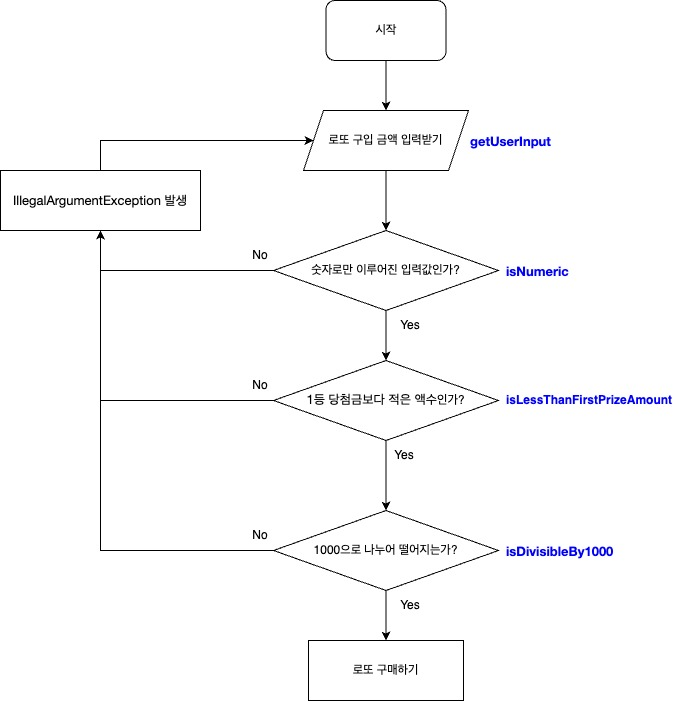
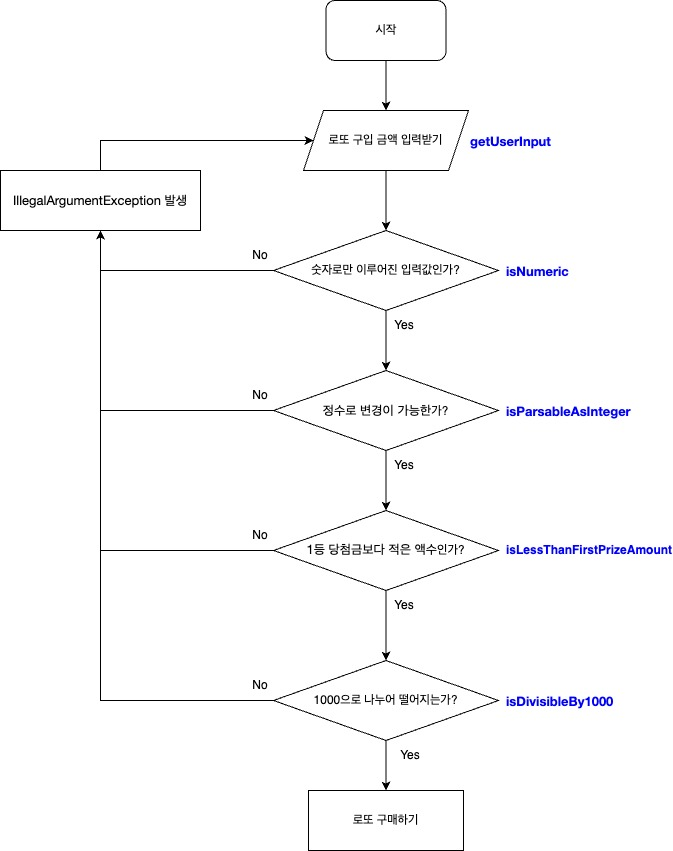
docs: 기능 구현 목록(입력 : Integer형으로 형변환이 가능한지 확인하는 isParsableAsInteger 추가)

diff --git a/README.md b/README.md
@@ -108,6 +108,8 @@
 - isNumeric 
   - 숫자 문자열인지 확인한다.
     - 양수 판별은 숫자인지 확인하며 진행된다.
+- isParsableAsInteger
+  - Integer형으로 형변환이 가능한지 확인한다.
 - isLessThanFirstPrizeAmount
   - 1등 당첨금보다 적은 액수인지 확인한다.
     - 당첨금보다 많이 로또를 구매할 수 없게 1등 당첨금을 최대 구매 가능 액수로 제한했다.
